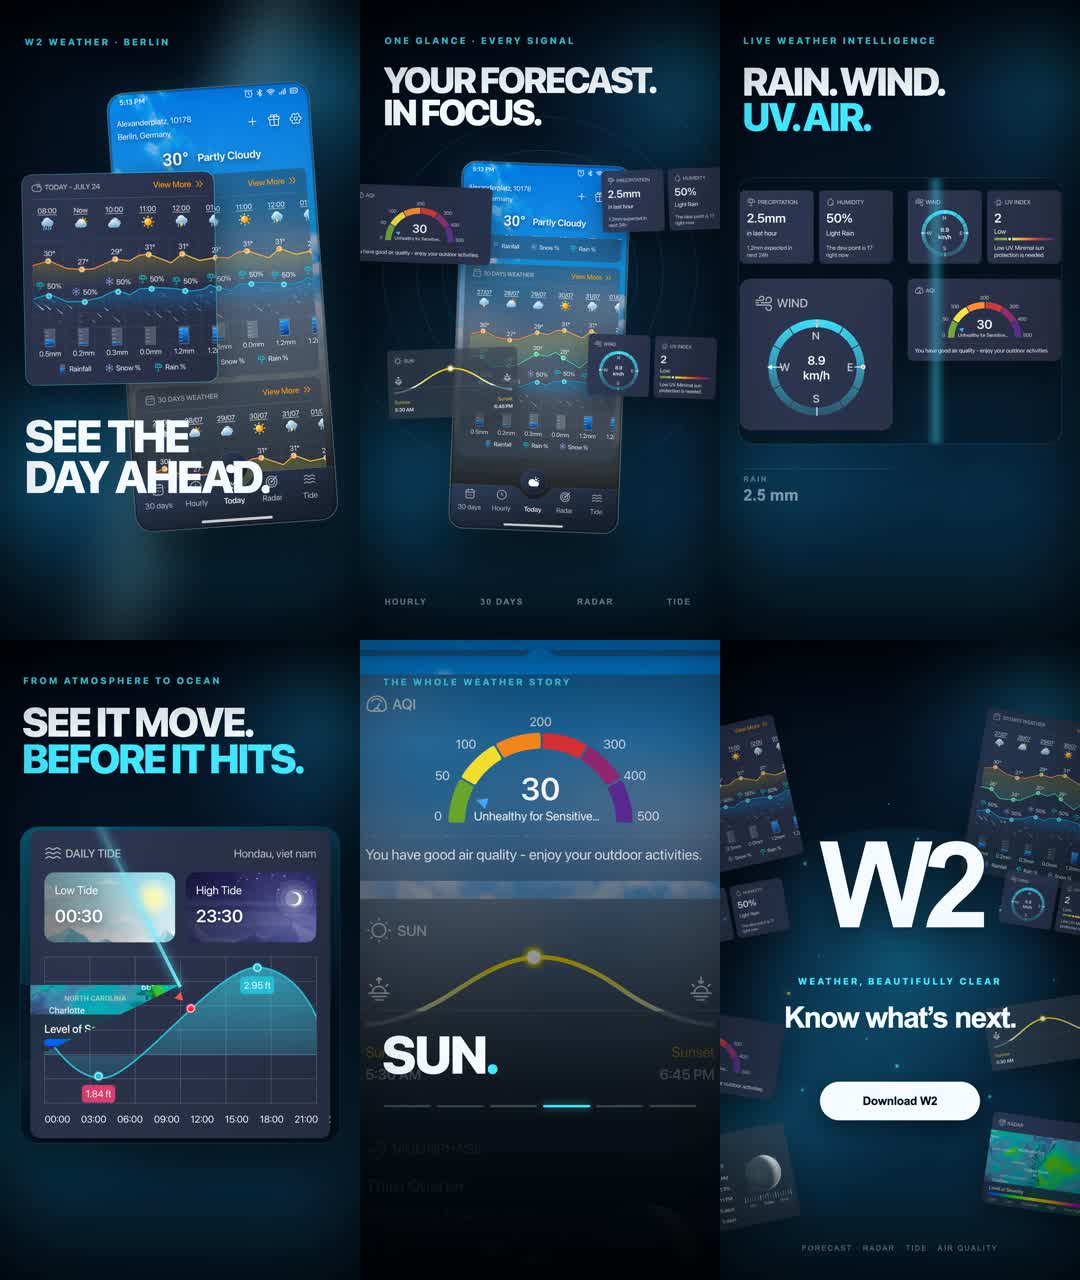
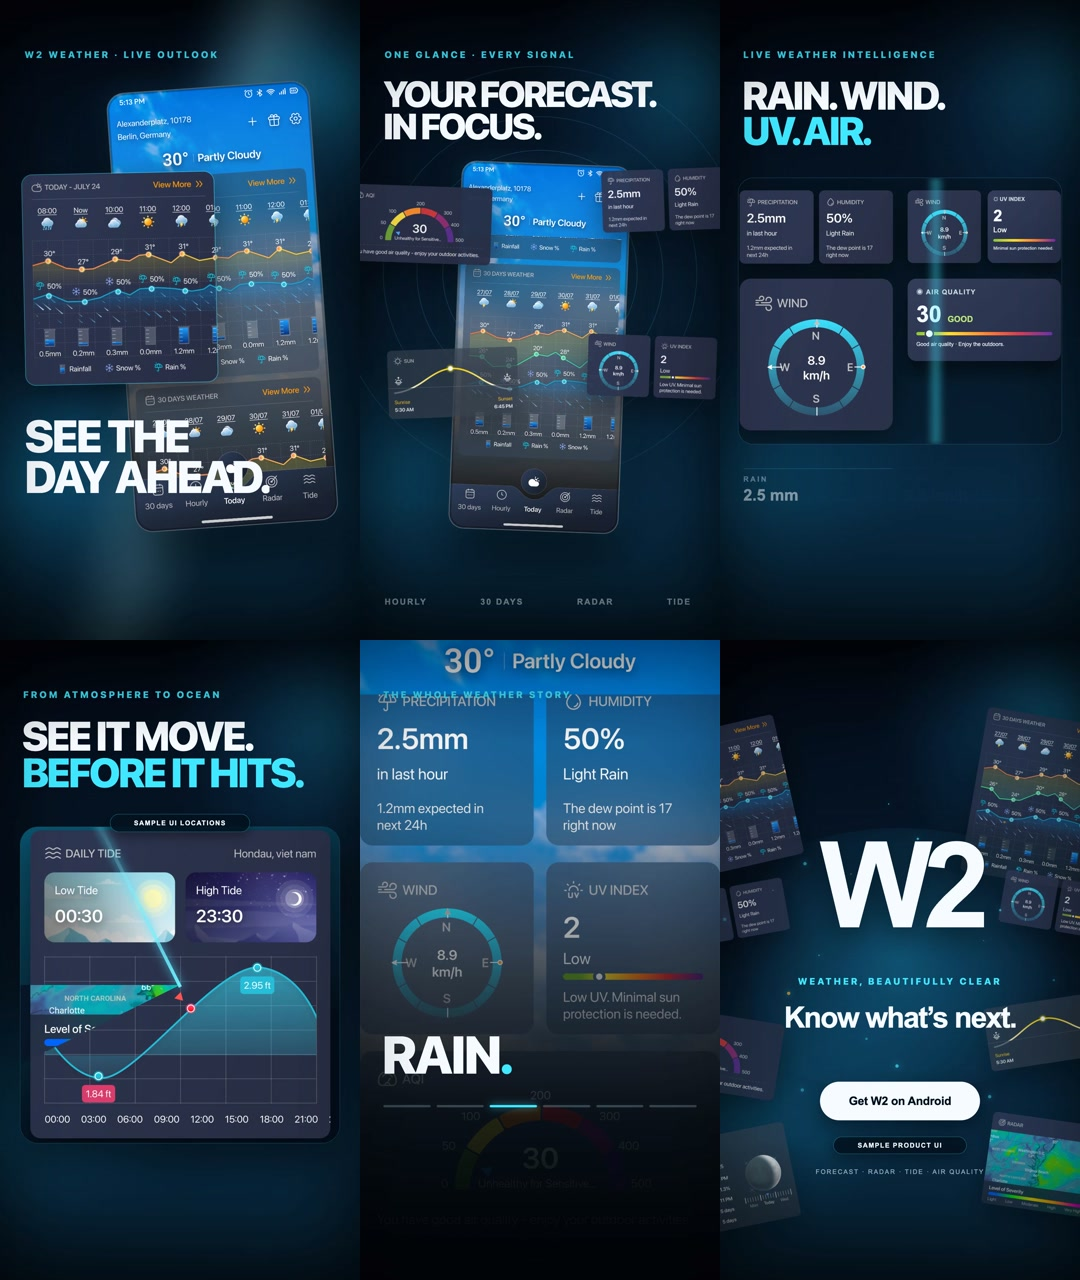
fix: harden W2 ad for social delivery

diff --git a/design-templates/w2-cinematic-video/src/scenes/SignalSelfTest.tsx b/design-templates/w2-cinematic-video/src/scenes/SignalSelfTest.tsx
@@ -5,7 +5,8 @@ import {progress} from '../timeline';
 
 const cards = [
   {src: 'elements/precipitation.png', top: 570, left: 58, width: 460, delay: 14},
-  {src: 'elements/humidity.png', top: 570, left: 562, width: 460, delay: 23},
+  {src: 'elements/wind.png', top: 570, left: 562, width: 220, delay: 23},
+  {src: 'code:uv', top: 570, left: 802, width: 220, delay: 28},
   {src: 'elements/wind.png', top: 835, left: 58, width: 460, delay: 32},
   {src: 'elements/aqi.png', top: 835, left: 562, width: 460, delay: 41},
 ] as const;
@@ -25,8 +26,8 @@ export const SignalSelfTest: React.FC = () => {
   return (
     <AbsoluteFill style={{overflow: 'hidden'}}>
       <Atmosphere intensity={0.72} />
-      <Eyebrow style={{position: 'absolute', left: 70, top: 108}}>Live weather intelligence</Eyebrow>
-      <DisplayTitle size={118} style={{position: 'absolute', left: 67, top: 190, width: 940}}>
+      <Eyebrow style={{position: 'absolute', left: 70, top: 150}}>Live weather intelligence</Eyebrow>
+      <DisplayTitle size={118} style={{position: 'absolute', left: 67, top: 232, width: 940}}>
         Rain. Wind.<br /><span style={{color: COLORS.cyan}}>UV. Air.</span>
       </DisplayTitle>
       <div style={{
@@ -41,7 +42,42 @@ export const SignalSelfTest: React.FC = () => {
         }} />
         {cards.map((card) => {
           const p = progress(frame, card.delay, card.delay + 18);
-          return <AssetCard key={card.src} src={card.src} width={card.width} style={{
+          if (card.src === 'code:uv') {
+            return <div key={card.src} style={{
+              position: 'absolute', left: card.left - 54, top: card.top - 533,
+              width: card.width, height: 218, borderRadius: 21, padding: '18px 17px',
+              opacity: p, transform: `translateY(${interpolate(p, [0, 1], [54, 0])}px)`,
+              background: 'linear-gradient(145deg, #343d59, #252e48)', color: COLORS.white,
+              fontFamily: 'Inter, sans-serif', boxShadow: '0 26px 38px rgba(0,0,0,.38)',
+            }}>
+              <div style={{color: '#c8d4df', fontSize: 16, fontWeight: 750}}>☼ UV INDEX</div>
+              <strong style={{display: 'block', fontSize: 48, lineHeight: 1, marginTop: 17}}>2</strong>
+              <div style={{fontSize: 22, marginTop: 5}}>Low</div>
+              <div style={{height: 8, borderRadius: 9, marginTop: 14, background: 'linear-gradient(90deg, #89c83a, #ffdc31, #ff8137, #802aac)'}} />
+              <div style={{fontSize: 13, lineHeight: 1.25, color: '#e1eaf1', marginTop: 12}}>Minimal sun protection needed.</div>
+            </div>;
+          }
+          if (card.src === 'elements/aqi.png') {
+            return <div key={card.src} style={{
+              position: 'absolute', left: card.left - 54, top: card.top - 533,
+              width: card.width, height: 247, borderRadius: 26, padding: '24px 26px',
+              opacity: p, transform: `translateY(${interpolate(p, [0, 1], [54, 0])}px)`,
+              background: 'linear-gradient(145deg, #343d59, #252e48)',
+              color: COLORS.white, fontFamily: 'Inter, sans-serif',
+              boxShadow: '0 36px 45px rgba(0,0,0,.45)',
+            }}>
+              <div style={{color: '#c8d4df', fontSize: 20, fontWeight: 750, letterSpacing: 2}}>◉ AIR QUALITY</div>
+              <div style={{display: 'flex', alignItems: 'baseline', gap: 18, marginTop: 18}}>
+                <strong style={{fontSize: 68, lineHeight: 1}}>30</strong>
+                <span style={{fontSize: 25, color: '#bce97b', fontWeight: 850}}>GOOD</span>
+              </div>
+              <div style={{position: 'relative', height: 10, borderRadius: 10, marginTop: 20, background: 'linear-gradient(90deg, #8cc83b, #ffde32, #ff8734, #d83f51, #6f35b2)'}}>
+                <i style={{position: 'absolute', left: '7%', top: -5, width: 20, height: 20, borderRadius: '50%', background: '#fff', boxShadow: '0 0 0 4px #303952'}} />
+              </div>
+              <div style={{fontSize: 16, color: '#e5edf4', marginTop: 18}}>Good air quality · Enjoy the outdoors.</div>
+            </div>;
+          }
+          return <AssetCard key={`${card.src}-${card.left}`} src={card.src} width={card.width} style={{
             left: card.left - 54, top: card.top - 533, opacity: p,
             transform: `translateY(${interpolate(p, [0, 1], [54, 0])}px)`,
           }} />;

diff --git a/design-templates/w2-cinematic-video/src/scenes/RadarToTide.tsx b/design-templates/w2-cinematic-video/src/scenes/RadarToTide.tsx
@@ -12,8 +12,8 @@ export const RadarToTide: React.FC = () => {
   return (
     <AbsoluteFill style={{overflow: 'hidden'}}>
       <Atmosphere intensity={0.86} />
-      <Eyebrow style={{position: 'absolute', left: 70, top: 108}}>From atmosphere to ocean</Eyebrow>
-      <DisplayTitle size={122} style={{position: 'absolute', left: 66, top: 190, width: 950}}>
+      <Eyebrow style={{position: 'absolute', left: 70, top: 150}}>From atmosphere to ocean</Eyebrow>
+      <DisplayTitle size={122} style={{position: 'absolute', left: 66, top: 232, width: 950}}>
         See it move.<br /><span style={{color: COLORS.cyan}}>Before it hits.</span>
       </DisplayTitle>
       <div style={{
@@ -35,10 +35,19 @@ export const RadarToTide: React.FC = () => {
         }} /> : null}
       </div>
       <div style={{
-        position: 'absolute', left: 70, bottom: 130, color: COLORS.muted,
+        position: 'absolute', left: 70, bottom: 260, color: COLORS.muted,
         fontFamily: 'Inter, sans-serif', fontSize: 31, lineHeight: 1.3, letterSpacing: 1.2,
         opacity: progress(frame, 80, 98) * (1 - exit),
       }}>Live radar. Daily tide.<br />One continuous forecast.</div>
+      <div style={{
+        position: 'absolute', left: 330, top: 522, width: 420, height: 54,
+        display: 'flex', alignItems: 'center', justifyContent: 'center',
+        borderRadius: 27, border: '1px solid rgba(64,231,255,.5)',
+        background: 'rgba(2,18,31,.9)', color: COLORS.white,
+        boxShadow: '0 14px 36px rgba(0,0,0,.38)',
+        fontFamily: 'Inter, sans-serif', fontSize: 20, fontWeight: 750,
+        letterSpacing: 2.4, textTransform: 'uppercase',
+      }}>Sample UI locations</div>
       <Vignette />
     </AbsoluteFill>
   );

diff --git a/design-templates/w2-cinematic-video/src/scenes/W2Launch.tsx b/design-templates/w2-cinematic-video/src/scenes/W2Launch.tsx
@@ -69,10 +69,19 @@ export const W2Launch: React.FC = () => {
         fontFamily: 'Inter, sans-serif', fontSize: 35, fontWeight: 850, letterSpacing: -0.5,
         opacity: cta, transform: `scale(${interpolate(cta, [0, 1], [0.82, 1])})`,
         boxShadow: '0 24px 65px rgba(0,0,0,.38)',
-      }}>Download W2</div>
+      }}>Get W2 on Android</div>
       <div style={{
-        position: 'absolute', left: 0, bottom: 82, width: '100%', textAlign: 'center',
-        fontFamily: 'Inter, sans-serif', fontSize: 22, color: COLORS.muted, letterSpacing: 4,
+        position: 'absolute', left: 340, top: 1490, width: 400, height: 52,
+        display: 'flex', alignItems: 'center', justifyContent: 'center',
+        borderRadius: 26, border: '1px solid rgba(64,231,255,.5)',
+        background: 'rgba(2,18,31,.9)', color: COLORS.white,
+        boxShadow: '0 14px 36px rgba(0,0,0,.38)',
+        fontFamily: 'Inter, sans-serif', fontSize: 20, fontWeight: 750,
+        letterSpacing: 2.4, textTransform: 'uppercase', opacity: progress(frame, 110, 132),
+      }}>Sample product UI</div>
+      <div style={{
+        position: 'absolute', left: 0, top: 1585, width: '100%', textAlign: 'center',
+        fontFamily: 'Inter, sans-serif', fontSize: 19, color: COLORS.muted, letterSpacing: 3.4,
         textTransform: 'uppercase', opacity: progress(frame, 110, 132),
       }}>Forecast · Radar · Tide · Air quality</div>
       <Vignette />

diff --git a/design-templates/w2-cinematic-video/src/scenes/ForecastAccelerando.tsx b/design-templates/w2-cinematic-video/src/scenes/ForecastAccelerando.tsx
@@ -3,7 +3,7 @@ import {AbsoluteFill, Img, interpolate, staticFile, useCurrentFrame, useVideoCon
 import {Atmosphere, COLORS, DisplayTitle, Eyebrow, Vignette} from '../components';
 import {progress} from '../timeline';
 
-const cuts = [0, 44, 59, 74, 81, 89, 93];
+const cuts = [0, 33, 60, 82, 100, 116];
 const screens = [
   'screens/today.png', 'screens/thirty-days.png', 'screens/metrics.png',
   'screens/sun-moon.png', 'screens/radar-tide.png', 'screens/moon-tide.png',
@@ -28,7 +28,7 @@ export const ForecastAccelerando: React.FC = () => {
         transform: `scale(${interpolate(impact, [0, 1], [1.07, 1])})`, opacity: 1 - exit,
       }} />
       <div style={{position: 'absolute', inset: 0, background: 'linear-gradient(to bottom, rgba(1,7,13,.05) 28%, rgba(1,7,13,.88) 75%, #01070d 100%)'}} />
-      <Eyebrow style={{position: 'absolute', left: 70, top: 112}}>The whole weather story</Eyebrow>
+      <Eyebrow style={{position: 'absolute', left: 70, top: 150}}>The whole weather story</Eyebrow>
       <DisplayTitle size={158} style={{position: 'absolute', left: 66, top: 1170, width: 960}}>
         {labels[index % labels.length]}<span style={{color: COLORS.cyan}}>.</span>
       </DisplayTitle>

diff --git a/design-templates/w2-cinematic-video/src/scenes/ForecastOrbit.tsx b/design-templates/w2-cinematic-video/src/scenes/ForecastOrbit.tsx
@@ -26,8 +26,8 @@ export const ForecastOrbit: React.FC = () => {
           transform: `scale(${1 + Math.sin(frame / 36 + index * 1.7) * 0.05})`,
         }} />
       ))}
-      <Eyebrow style={{position: 'absolute', left: 74, top: 108}}>One glance · every signal</Eyebrow>
-      <DisplayTitle size={108} style={{position: 'absolute', left: 70, top: 190, width: 900}}>
+      <Eyebrow style={{position: 'absolute', left: 74, top: 150}}>One glance · every signal</Eyebrow>
+      <DisplayTitle size={108} style={{position: 'absolute', left: 70, top: 232, width: 900}}>
         Your forecast.<br />In focus.
       </DisplayTitle>
       <Device src="screens/thirty-days.png" width={510} imageOffset={interpolate(frame, [0, durationInFrames], [-2, 2])} style={{

diff --git a/design-templates/w2-cinematic-video/src/scenes/Opening.tsx b/design-templates/w2-cinematic-video/src/scenes/Opening.tsx
@@ -24,7 +24,7 @@ export const Opening: React.FC = () => {
         transform: 'rotate(14deg)', filter: 'blur(34px)', opacity: 0.36,
         background: 'linear-gradient(90deg, transparent, rgba(152,234,255,.88), transparent)',
       }} />
-      <Eyebrow style={{position: 'absolute', left: 74, top: 112}}>W2 Weather · Berlin</Eyebrow>
+      <Eyebrow style={{position: 'absolute', left: 74, top: 150}}>W2 Weather · Live outlook</Eyebrow>
       <Device src="screens/today.png" width={610} style={{
         left: 362, top: 255, opacity: 1 - exit,
         transform: `translateY(${interpolate(entrance, [0, 1], [142, 0]) + drift}px) rotate(${interpolate(entrance, [0, 1], [9, -4])}deg) scale(${1 - exit * 0.05})`,

diff --git a/design-templates/w2-cinematic-video/example.html b/design-templates/w2-cinematic-video/example.html
@@ -32,7 +32,7 @@
         <div class="eyebrow">Production sample · W2 Weather</div>
         <h1>Know what’s next.</h1>
         <p>A 30-second cinematic motion-graphic ad assembled from the supplied W2 Figma screens and exact feature components.</p>
-        <div class="status">Final master passed six review rounds</div>
+        <div class="status">Final master passed nine review rounds</div>
         <dl>
           <dt>Format</dt><dd>1080 × 1920 · H.264</dd>
           <dt>Timing</dt><dd>30.000 s · 900 frames</dd>

diff --git a/design-templates/w2-cinematic-video/ITERATIONS.md b/design-templates/w2-cinematic-video/ITERATIONS.md
@@ -12,6 +12,9 @@ stills extracted at representative and boundary frames.
 | 4 — information integrity | `v4-preview.mp4`, frames 340/385, 12-frame contact sheet | Figma’s paired metric groups created duplicated Wind/UV cards after the new exports were added. | Separated visual cards from numeric fact labels; retained one deliberate Wind close-up and replaced the duplicate with AQI. |
 | 5 — pace and mastering | `v5-preview.mp4`, 12-frame contact sheet | Twelve-frame pre-cut fades created dead air; the mix measured −22.84 LUFS. | Reduced pre-cut fade to four frames; mastered to −16 LUFS / −1.5 dBTP and forced both streams to exactly 30.000 seconds. |
 | 6 — encoded sync | full-resolution master, `output_sync.json` | The first AAC render introduced a measured 42.375 ms audio delay. | Rendered the Remotion mix to lossless WAV and muxed it once; final measured lag is −0.375 ms and every main cut is within 0.413 frame of the beat grid. |
+| 7 — independent red-team | fresh-context review of all 900 frames | Figma’s AQI copy contradicted its value; mixed demo locations lacked disclosure; first master carried JPEG full-range/BT.470 metadata. | Rebuilt the AQI card with consistent copy, labeled demo locations as sample UI, removed Berlin from campaign copy and standardized the master to limited-range BT.709. |
+| 8 — release polish | reviewer timing/safe-zone findings | The final recap dropped to 4–8 frames per state, source UV copy lacked spacing, top/bottom utility copy sat near platform chrome and the visual CTA did not name its platform. | Recut all six recap states to 16–33 frames, replaced UV microcopy with a clean code-native card, moved utility copy inward and changed the CTA to “Get W2 on Android”. |
+| 9 — social-safe disclosure | final independent review at frames 490/810 | The required sample-data disclosure was present but could be obscured by right-side controls and bottom captions on paid-social platforms. | Promoted both disclosures into high-contrast centered pills within the primary safe area and rendered a new full master. |
 
 The final deliverable is intentionally not a generated-image ad. Typography,
 layout, brand copy, app UI, timing and export are deterministic code; the

diff --git a/design-templates/w2-cinematic-video/QA-REPORT.md b/design-templates/w2-cinematic-video/QA-REPORT.md
@@ -10,7 +10,8 @@
 - Video duration: 30.000 seconds
 - Audio duration: 30.000 seconds
 - Audio sample rate: 48 kHz
-- Delivery bitrate: approximately 5.08 Mb/s
+- Delivery bitrate: approximately 4.28 Mb/s
+- Color: YUV 4:2:0 limited range, BT.709 primaries/transfer/matrix
 - File: `out/w2-cinematic-30s-raw.mp4`
 
 ## Automated checks
@@ -19,7 +20,7 @@
 - Remotion full render: pass
 - Video dimensions/frame count/duration (`ffprobe`) — pass
 - Audio duration/sample rate (`ffprobe`) — pass
-- Mastered loudness: −15.57 LUFS integrated, −1.49 dB true peak — pass
+- Mastered loudness: −15.56 LUFS integrated, −1.50 dB true peak — pass
 - Source-to-output audio lag: −0.375 ms — pass
 - Maximum shot-boundary error against selected beat grid: 0.413 frame — pass
 - Styleframe preview at desktop and 390 px mobile: zero browser console errors — pass
@@ -34,6 +35,11 @@
 - No placeholder UI or generated product screenshot is present.
 - The final CTA holds for more than three seconds and the W2 wordmark holds for
   more than five seconds.
+- Every state in the accelerated product recap now holds for at least 16 frames.
+- The in-video CTA identifies Android; the paid-social campaign supplies the
+  actual destination through its native CTA configuration.
+- Mixed demo geographies are explicitly labeled as sample UI; the marketing
+  copy does not present any sample location as the viewer’s live forecast.
 - Product claims shown are limited to capabilities visible in the supplied
   Figma design: forecast, radar, tide, UV, wind and air quality.
 
